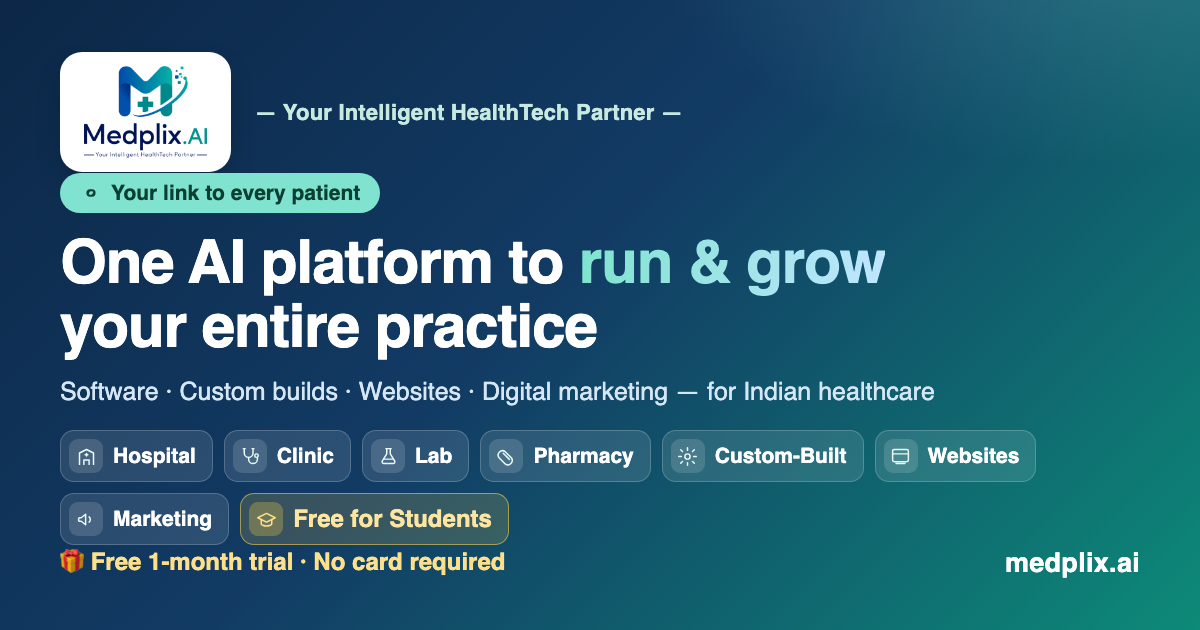
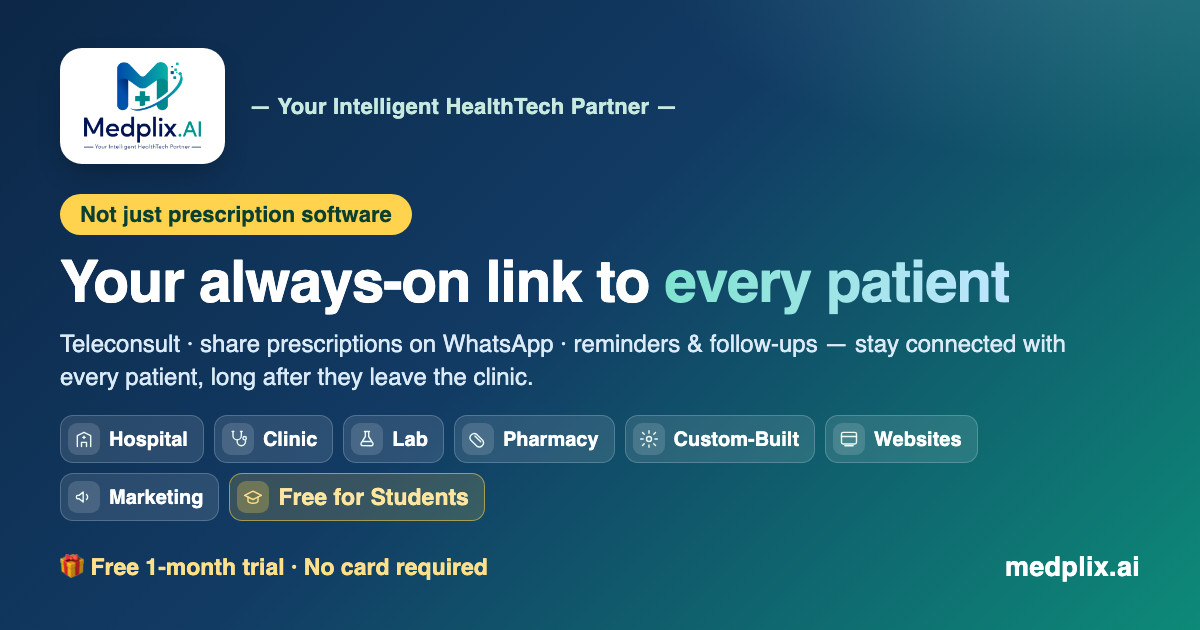
Share card: lead with the "more than prescriptions" connection message
Reframe the social share card to make the core positioning unmistakable:
gold eyebrow "Not just prescription software", headline "Your always-on
link to every patient", and a subline naming the connection features
(teleconsult, prescriptions on WhatsApp, reminders & follow-ups — stay
connected long after the clinic). Keeps the big logo, SVG product chips
and gold Free-for-Students chip. og:image → ?v=7; OG/Twitter description
rewritten to match.

Changed region(s): [[0.0308, 0.0603, 0.8942, 0.9349], [0.8325, 0.8746, 0.9558, 0.9349]]

diff --git a/index.html b/index.html
@@ -20,9 +20,9 @@
   <meta property="og:type" content="website" />
   <meta property="og:site_name" content="Medplix.AI" />
   <meta property="og:title" content="Medplix.AI — AI Hospital, Clinic, Lab &amp; Pharmacy Software for India" />
-  <meta property="og:description" content="One AI platform to run &amp; grow your practice — software for Hospitals, Clinics, Labs &amp; Pharmacies, plus custom builds, websites &amp; digital marketing. Free 1-month trial." />
+  <meta property="og:description" content="Not just prescription software — Medplix keeps you connected to every patient with teleconsult, prescriptions on WhatsApp, reminders &amp; follow-ups, for Hospitals, Clinics, Labs &amp; Pharmacies. Free 1-month trial." />
   <meta property="og:url" content="https://www.medplix.ai/" />
-  <meta property="og:image" content="https://www.medplix.ai/assets/og-image.jpg?v=6" />
+  <meta property="og:image" content="https://www.medplix.ai/assets/og-image.jpg?v=7" />
   <meta property="og:image:width" content="1200" />
   <meta property="og:image:height" content="630" />
   <meta property="og:image:type" content="image/jpeg" />
@@ -30,7 +30,7 @@
   <meta name="twitter:card" content="summary_large_image" />
   <meta name="twitter:title" content="Medplix.AI — AI-powered healthcare management" />
   <meta name="twitter:description" content="Run your whole hospital, clinic, lab or pharmacy on one connected, AI-powered system. Book a free demo." />
-  <meta name="twitter:image" content="https://www.medplix.ai/assets/og-image.jpg?v=6" />
+  <meta name="twitter:image" content="https://www.medplix.ai/assets/og-image.jpg?v=7" />
 
   <!-- ===== ICONS / MANIFEST ===== -->
   <link rel="icon" type="image/png" sizes="32x32" href="assets/favicon-32.png?v=4" />

diff --git a/product-pharmacy.html b/product-pharmacy.html
@@ -9,7 +9,7 @@
   <meta name="theme-color" content="#0f2c4d" />
   <meta property="og:title" content="Medplix Pharmacy — Pharmacy Billing & Inventory Software" />
   <meta property="og:description" content="Fast billing, tight inventory and zero stock leakage — fully GST-ready. ₹499/month." />
-  <meta property="og:image" content="https://www.medplix.ai/assets/og-image.jpg?v=6" />
+  <meta property="og:image" content="https://www.medplix.ai/assets/og-image.jpg?v=7" />
   <link rel="icon" type="image/png" sizes="32x32" href="assets/favicon-32.png?v=4" />
   <link rel="icon" type="image/png" sizes="16x16" href="assets/favicon-16.png?v=4" />
   <link rel="apple-touch-icon" sizes="180x180" href="assets/apple-touch-icon.png?v=4" />

diff --git a/product-labs.html b/product-labs.html
@@ -9,7 +9,7 @@
   <meta name="theme-color" content="#0f2c4d" />
   <meta property="og:title" content="Medplix Labs — Complete Laboratory Software (LIS)" />
   <meta property="og:description" content="From sample collection to auto-delivered reports — a complete lab system. ₹499/month." />
-  <meta property="og:image" content="https://www.medplix.ai/assets/og-image.jpg?v=6" />
+  <meta property="og:image" content="https://www.medplix.ai/assets/og-image.jpg?v=7" />
   <link rel="icon" type="image/png" sizes="32x32" href="assets/favicon-32.png?v=4" />
   <link rel="icon" type="image/png" sizes="16x16" href="assets/favicon-16.png?v=4" />
   <link rel="apple-touch-icon" sizes="180x180" href="assets/apple-touch-icon.png?v=4" />

diff --git a/product-clinic.html b/product-clinic.html
@@ -9,7 +9,7 @@
   <meta name="theme-color" content="#0f2c4d" />
   <meta property="og:title" content="Medplix Clinic — Complete Clinic Management Software" />
   <meta property="og:description" content="Appointments to billing for fast, paperless OPD clinics & daycare. ₹499/month." />
-  <meta property="og:image" content="https://www.medplix.ai/assets/og-image.jpg?v=6" />
+  <meta property="og:image" content="https://www.medplix.ai/assets/og-image.jpg?v=7" />
   <link rel="icon" type="image/png" sizes="32x32" href="assets/favicon-32.png?v=4" />
   <link rel="icon" type="image/png" sizes="16x16" href="assets/favicon-16.png?v=4" />
   <link rel="apple-touch-icon" sizes="180x180" href="assets/apple-touch-icon.png?v=4" />

diff --git a/product-hms.html b/product-hms.html
@@ -9,7 +9,7 @@
   <meta name="theme-color" content="#0f2c4d" />
   <meta property="og:title" content="Medplix HMS — Complete Hospital Management Software" />
   <meta property="og:description" content="Run your whole hospital on one connected, AI-powered system. ₹1,250/month." />
-  <meta property="og:image" content="https://www.medplix.ai/assets/og-image.jpg?v=6" />
+  <meta property="og:image" content="https://www.medplix.ai/assets/og-image.jpg?v=7" />
   <link rel="icon" type="image/png" sizes="32x32" href="assets/favicon-32.png?v=4" />
   <link rel="icon" type="image/png" sizes="16x16" href="assets/favicon-16.png?v=4" />
   <link rel="apple-touch-icon" sizes="180x180" href="assets/apple-touch-icon.png?v=4" />
